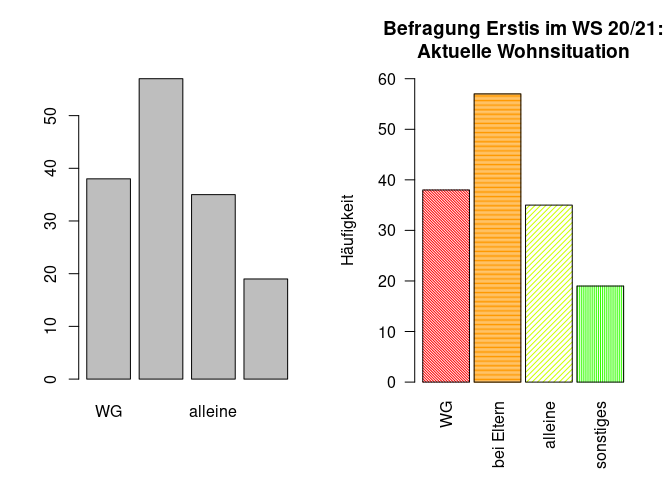
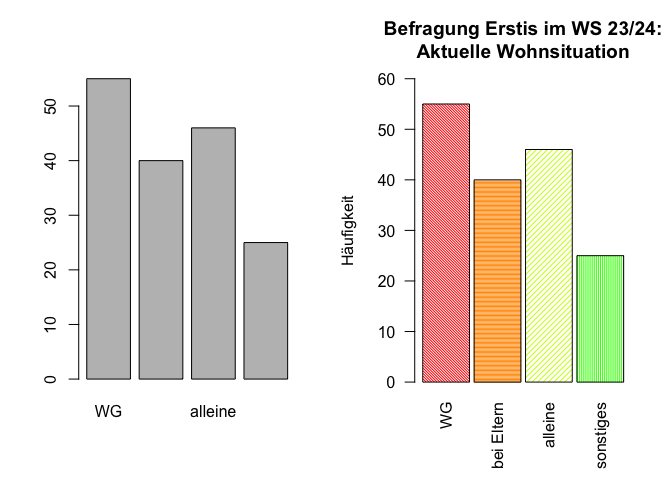
Update deskriptiv-nominal-ordinal-aufgaben + loesungen, now with fb23

diff --git a/content/lehre/statistik-i/deskriptiv-nominal-ordinal-loesungen.md b/content/lehre/statistik-i/deskriptiv-nominal-ordinal-loesungen.md
@@ -8,7 +8,7 @@ tags: []
 subtitle: ''
 summary: '' 
 authors: [buchholz, nehler] 
-lastmod: '2023-10-24'
+lastmod: '2023-10-27'
 featured: no
 banner:
   image: "/header/frogs_on_phones.jpg"
@@ -31,11 +31,11 @@ Die Lösungen sind exemplarische Möglichkeiten. In `R` gibt es immer viele Wege
 
 <details><summary>Lösung</summary>
 
-Laden Sie zunächst den Datensatz `fb22` von der pandar-Website herunter und dann ein.
+Laden Sie zunächst den Datensatz `fb23` von der pandar-Website herunter und dann ein.
 
 
 ```r
-load(url('https://pandar.netlify.app/daten/fb22.rda'))   # Daten laden
+load(url('https://pandar.netlify.app/daten/fb23.rda'))   # Daten laden
 ```
 
 Die Bedeutung der einzelnen Variablen und ihre Antwortkategorien können Sie dem Dokument [Variablenübersicht](/lehre/statistik-i/variablen.pdf) entnehmen.
@@ -44,58 +44,62 @@ Verschaffen Sie sich nun einen Überblick über den Datensatz:
 
 
 ```r
-dim(fb22)
+dim(fb23)
 ```
 
 ```
-## [1] 159  36
+## [1] 179  40
 ```
 
 ```r
-str(fb22)
+str(fb23)
 ```
 
 ```
-## 'data.frame':	159 obs. of  36 variables:
-##  $ prok1  : int  1 4 3 1 2 2 2 3 2 4 ...
-##  $ prok2  : int  3 3 3 3 1 4 2 1 3 3 ...
-##  $ prok3  : int  4 2 2 4 4 2 3 2 2 2 ...
-##  $ prok4  : int  2 4 4 NA 3 2 2 3 3 4 ...
-##  $ prok5  : int  3 1 2 4 2 3 3 3 4 2 ...
-##  $ prok6  : int  4 4 4 3 1 2 2 3 2 4 ...
-##  $ prok7  : int  3 2 2 4 2 3 3 3 3 3 ...
-##  $ prok8  : int  3 4 3 4 4 2 3 3 4 2 ...
-##  $ prok9  : int  1 4 4 2 1 1 2 2 3 4 ...
-##  $ prok10 : int  3 4 3 2 1 3 1 4 1 4 ...
-##  $ nr1    : int  1 1 4 2 1 1 1 5 2 1 ...
-##  $ nr2    : int  3 2 5 4 5 4 3 5 4 4 ...
-##  $ nr3    : int  5 1 5 4 1 3 3 5 5 4 ...
-##  $ nr4    : int  4 2 5 4 2 4 4 5 3 5 ...
-##  $ nr5    : int  4 2 5 4 2 3 4 5 4 4 ...
-##  $ nr6    : int  3 1 5 3 2 1 1 5 2 4 ...
-##  $ lz     : num  5.4 6 3 6 3.2 5.8 4.2 NA 5.4 4.6 ...
-##  $ extra  : num  2.75 3.75 4.25 4 2.5 3 2.75 3.5 4.75 5 ...
-##  $ vertr  : num  3.75 4.75 4.5 4.75 4.75 3 3.25 5 4.5 4.5 ...
-##  $ gewis  : num  4.25 2.75 3.75 4.25 5 4.25 4 4.75 4.5 3 ...
-##  $ neuro  : num  4.25 5 4 2.25 3.75 3.25 3 3.5 4 4.5 ...
-##  $ intel  : num  4.75 4 5 4.75 3.5 3 4 4 5 4.25 ...
-##  $ nerd   : num  2.67 4 4.33 3.17 4.17 ...
-##  $ grund  : chr  "Interesse" "Allgemeines Interesse schon seit der Kindheit" "menschliche Kognition wichtig und rätselhaft; Interesse für Psychoanalyse; Schnittstelle zur Linguistik" "Psychoanalyse, Hilfsbereitschaft, Lebenserfahrung" ...
-##  $ fach   : num  5 4 1 4 2 NA 1 4 3 4 ...
-##  $ ziel   : num  2 2 3 2 2 NA 1 2 2 2 ...
-##  $ lerntyp: num  1 1 1 1 1 NA 3 2 3 1 ...
-##  $ geschl : int  1 2 2 2 1 NA 2 1 1 1 ...
-##  $ job    : int  1 2 1 1 1 NA 2 1 1 1 ...
-##  $ ort    : int  1 1 1 2 2 NA 2 1 1 1 ...
-##  $ ort12  : int  1 1 1 1 1 NA 1 1 1 1 ...
-##  $ wohnen : num  2 2 3 4 2 NA 2 1 1 3 ...
-##  $ uni1   : num  0 0 0 0 0 0 0 1 1 1 ...
-##  $ uni2   : num  1 1 0 1 1 0 0 1 1 1 ...
-##  $ uni3   : num  0 0 0 0 0 0 0 1 1 1 ...
-##  $ uni4   : num  0 0 1 0 0 0 0 0 0 0 ...
+## 'data.frame':	179 obs. of  40 variables:
+##  $ mdbf1_pre  : int  4 2 4 NA 3 3 2 3 3 2 ...
+##  $ mdbf2_pre  : int  2 2 3 3 3 2 3 2 2 1 ...
+##  $ mdbf3_pre  : int  3 4 2 2 2 3 3 1 2 2 ...
+##  $ mdbf4_pre  : int  2 2 1 2 1 1 3 2 3 3 ...
+##  $ mdbf5_pre  : int  3 2 3 2 2 1 3 3 2 4 ...
+##  $ mdbf6_pre  : int  2 1 2 2 2 2 2 3 2 2 ...
+##  $ mdbf7_pre  : int  4 3 3 1 1 2 2 3 3 3 ...
+##  $ mdbf8_pre  : int  3 2 3 2 3 3 2 3 3 2 ...
+##  $ mdbf9_pre  : int  2 4 1 2 3 3 4 2 2 3 ...
+##  $ mdbf10_pre : int  3 2 3 3 2 4 2 2 2 2 ...
+##  $ mdbf11_pre : int  3 2 1 2 2 1 3 1 2 4 ...
+##  $ mdbf12_pre : int  1 1 2 3 2 2 2 3 3 2 ...
+##  $ lz         : num  5.4 3.4 4.4 4.4 6.4 5.6 5.4 5 4.8 6 ...
+##  $ extra      : num  3.5 3 4 3 4 4.5 3.5 3.5 2.5 3 ...
+##  $ vertr      : num  1.5 3 3.5 4 4 4.5 4 4 3 3.5 ...
+##  $ gewis      : num  4.5 4 5 3.5 3.5 4 4.5 2.5 3.5 4 ...
+##  $ neuro      : num  5 5 2 4 3.5 4.5 3 2.5 4.5 4 ...
+##  $ offen      : num  5 5 4.5 3.5 4 4 5 4.5 4 3 ...
+##  $ prok       : num  1.8 3.1 1.5 1.6 2.7 3.3 2.2 3.4 2.4 3.1 ...
+##  $ nerd       : num  4.17 3 2.33 2.83 3.83 ...
+##  $ grund      : chr  "Berufsziel" "Interesse am Menschen" "Interesse und Berufsaussichten" "Wissenschaftliche Ergänzung zu meinen bisherigen Tätigkeiten (Arbeit in der psychiatrischen Akutpflege, Gestalt"| __truncated__ ...
+##  $ fach       : num  4 4 4 4 4 4 NA 4 4 NA ...
+##  $ ziel       : num  2 2 2 2 2 2 NA 4 2 2 ...
+##  $ wissen     : int  5 4 5 4 2 3 NA 4 3 3 ...
+##  $ therap     : int  5 5 5 5 4 5 NA 3 5 5 ...
+##  $ lerntyp    : num  3 3 1 3 3 1 NA 1 3 3 ...
+##  $ hand       : int  2 2 2 2 2 2 NA 2 1 2 ...
+##  $ job        : int  1 1 1 1 2 2 NA 2 1 2 ...
+##  $ ort        : int  2 1 1 1 1 2 NA 1 1 2 ...
+##  $ ort12      : int  2 1 2 2 2 1 NA 2 2 1 ...
+##  $ wohnen     : num  4 1 1 1 1 2 NA 3 3 2 ...
+##  $ uni1       : num  0 1 0 1 0 0 0 0 0 0 ...
+##  $ uni2       : num  1 1 1 1 1 1 0 1 1 1 ...
+##  $ uni3       : num  0 1 0 0 1 0 0 1 1 0 ...
+##  $ uni4       : num  0 1 0 1 0 0 0 0 0 0 ...
+##  $ attent_pre : int  6 6 6 6 6 6 NA 4 5 5 ...
+##  $ gs_post    : num  3 2.75 4 2.5 3.75 NA 4 2.75 3.75 2.5 ...
+##  $ wm_post    : num  2 1 3.75 2.75 3 NA 3.25 2 3.25 2 ...
+##  $ ru_post    : num  2.25 1.5 3.75 3.5 3 NA 3.5 2.75 2.75 2.75 ...
+##  $ attent_post: int  6 5 6 6 6 NA 6 4 5 3 ...
 ```
 
-Der Datensatz besteht aus 159 Zeilen (Beobachtungen) und 36 Spalten (=Variablen).
+Der Datensatz besteht aus 179 Zeilen (Beobachtungen) und 40 Spalten (Variablen).
 
 </details>
 
@@ -116,10 +120,10 @@ Untersuchen Sie, welche Arbeitsbranche Sie und Ihre Kommiliton:innen nach dem St
 
 
 ```r
-fb22$ziel <- factor(fb22$ziel,
+fb23$ziel <- factor(fb23$ziel,
                         levels = 1:4,
                         labels = c("Wirtschaft", "Therapie", "Forschung", "Andere"))
-levels(fb22$ziel)
+levels(fb23$ziel)
 ```
 
 ```
@@ -130,23 +134,23 @@ levels(fb22$ziel)
 
 
 ```r
-table(fb22$ziel)              # absolut
+table(fb23$ziel)              # absolut
 ```
 
 ```
 ## 
 ## Wirtschaft   Therapie  Forschung     Andere 
-##         20         80         32         17
+##         15        106         29         19
 ```
 
 ```r
-prop.table(table(fb22$ziel))  # relativ
+prop.table(table(fb23$ziel))  # relativ
 ```
 
 ```
 ## 
 ## Wirtschaft   Therapie  Forschung     Andere 
-##  0.1342282  0.5369128  0.2147651  0.1140940
+##  0.0887574  0.6272189  0.1715976  0.1124260
 ```
 
 **Zentrale Tendenz und Dispersion für nominalskalierte Variablen: Modus, relativer Informationsgehalt**
@@ -154,7 +158,7 @@ prop.table(table(fb22$ziel))  # relativ
 
 ```r
 # Modus
-which.max(table(fb22$ziel))
+which.max(table(fb23$ziel))
 ```
 
 ```
@@ -165,7 +169,7 @@ which.max(table(fb22$ziel))
 
 ```r
 #relativer Informationsgehalt
-hj <- prop.table(table(fb22$ziel))  # hj erstellen
+hj <- prop.table(table(fb23$ziel))  # hj erstellen
 ln_hj <- log(hj)                    # Logarithmus bestimmen
 summand <- ln_hj * hj               # Berechnung fuer jede Kategorie
 summe <- sum(summand)               # Gesamtsumme
@@ -175,10 +179,10 @@ relInf
 ```
 
 ```
-## [1] 0.8522699
+## [1] 0.7615196
 ```
 
-Der Modus der Variable lautet Therapie - die meisten Ihres Jahrgangs (*n* = 80 bzw. 53.69%) streben einen Job in diesem Bereich an. Der relative Informationsgehalt der Variable beträgt 0.85. Sie sehen hier, dass wir im Code einen kleinen Unterschied zum Tutorial eingebaut haben. Die Anzahl der Kategorien wird nicht mehr durch `dim(tab)` sondern durch `length(hj)` bestimmt. Das Resultat ist nicht verschieden - die Anzahl der Kategorien wird gezählt. Wir wollen somit aber nochmal deutlich machen, dass es in `R` immer sehr viele Wege zu einem Ziel geben kann.
+Der Modus der Variable lautet Therapie - die meisten Ihres Jahrgangs (*n* = 106 bzw. 62.72%) streben einen Job in diesem Bereich an. Der relative Informationsgehalt der Variable beträgt 0.76. Sie sehen hier, dass wir im Code einen kleinen Unterschied zum Tutorial eingebaut haben. Die Anzahl der Kategorien wird nicht mehr durch `dim(tab)` sondern durch `length(hj)` bestimmt. Das Resultat ist nicht verschieden - die Anzahl der Kategorien wird gezählt. Wir wollen somit aber nochmal deutlich machen, dass es in `R` immer sehr viele Wege zu einem Ziel geben kann.
 
 </details>
 
@@ -186,7 +190,7 @@ Der Modus der Variable lautet Therapie - die meisten Ihres Jahrgangs (*n* = 80 b
 
 ## Aufgabe 2
 
-Die Variable `nr3` enthält die Angaben über das Ausmaß, in dem Sie und Ihre Kommilitonen:innen Ihre Verbindung zur Natur als Teil Ihrer Spiritualität ansehen.
+Die Variable `wissen` enthält die Angaben über das Ausmaß, in dem sich Sie und Ihre Kommilitonen:innen für wissenschaftliche Grundlagen interessieren.
 
 * Bestimmen Sie für diese Variable den Modus.     
 * Untersuchen Sie die Streuung für diese Variable optisch, indem Sie einen Boxplot erstellen.  
@@ -198,44 +202,44 @@ Die Variable `nr3` enthält die Angaben über das Ausmaß, in dem Sie und Ihre K
 
 
 ```r
-which.max(table(fb22$nr3))
+which.max(table(fb23$wissen))
 ```
 
 ```
-## 3 
-## 3
+## 4 
+## 4
 ```
 
 **Häufigkeiten**
 
 
 ```r
-table(fb22$nr3)
+table(fb23$wissen)
 ```
 
 ```
 ## 
 ##  1  2  3  4  5 
-## 19 28 47 40 23
+##  1 20 54 69 32
 ```
 
 ```r
-prop.table(table(fb22$nr3))
+prop.table(table(fb23$wissen))
 ```
 
 ```
 ## 
-##         1         2         3         4         5 
-## 0.1210191 0.1783439 0.2993631 0.2547771 0.1464968
+##           1           2           3           4           5 
+## 0.005681818 0.113636364 0.306818182 0.392045455 0.181818182
 ```
 
-Der Modus der Variable "nr3" beträgt 3, d.h. diese Antwortkategorie wurde am häufigsten genannt (*n* = 47 bzw. 29.94%).
+Der Modus der Variable "wissen" beträgt 4, d.h. diese Antwortkategorie wurde am häufigsten genannt (*n* = 69 bzw. 39.2%).
 
 **Boxplot**
 
 
 ```r
-boxplot(fb22$nr3)
+boxplot(fb23$wissen)
 ```
 
 ![](/lehre/statistik-i/deskriptiv-nominal-ordinal-loesungen_files/figure-html/unnamed-chunk-9-1.png)<!-- -->
@@ -244,15 +248,15 @@ boxplot(fb22$nr3)
 
 
 ```r
-quantile(fb22$nr3, c(.25,.5,.75), na.rm=T)
+quantile(fb23$wissen, c(.25,.5,.75), na.rm=T)
 ```
 
 ```
 ## 25% 50% 75% 
-##   2   3   4
+##   3   4   4
 ```
 
-Der Median beträgt 3. Das 1. und 3. Quartil betragen 2 bzw. 4. Folglich sind die Grenzen des Interquartilsbereich (IQB) 2 und 4. Der Interquartilsabstand (IQA) beträgt 2.
+Der Median beträgt 4. Das 1. und 3. Quartil betragen 3 bzw. 4. Folglich sind die Grenzen des Interquartilsbereich (IQB) 3 und 4. Der Interquartilsabstand (IQA) beträgt 1.
 
 </details>
 
@@ -263,7 +267,7 @@ Erstellen Sie für die Variable `wohnen` eine geeignete Abbildung.
 
 * Stellen Sie sicher, dass die einzelnen Ausprägungen der Variable in der Darstellung interpretierbar benannt sind!  
 * Dekorieren Sie diese Abbildung nach eigenen Wünschen (z.B. mit einer Farbpalette und Achsenbeschriftungen).
-* Speichern Sie die Grafik per Syntax als .jpg-Datei mit dem Namen "Befragung-fb22.jpg" ab.
+* Speichern Sie die Grafik per Syntax als .jpg-Datei mit dem Namen "Befragung-fb23.jpg" ab.
 
 <details><summary>Lösung</summary>
 
@@ -271,7 +275,7 @@ Erstellen Sie für die Variable `wohnen` eine geeignete Abbildung.
 
 
 ```r
-fb22$wohnen <- factor(fb22$wohnen, 
+fb23$wohnen <- factor(fb23$wohnen, 
                       levels = 1:4, 
                       labels = c("WG", "bei Eltern", "alleine", "sonstiges"))
 ```
@@ -285,14 +289,14 @@ Um die Vergleichbarkeit zu erhöhen, wird im folgenden Code ein kleiner Trick an
 par(mfrow=c(1,2))
 
 # Default
-barplot(table(fb22$wohnen))
+barplot(table(fb23$wohnen))
 
 # Überarbeitet
 barplot(
   # wichtig: Funktion auf Häufigkeitstabelle, nicht die Variable selbst anwenden:
-  table(fb22$wohnen),                               
+  table(fb23$wohnen),                               
   # aussagekräftiger Titel, inkl. Zeilenumbruch ("\n") 
-  main = "Befragung Erstis im WS 20/21:\nAktuelle Wohnsituation", 
+  main = "Befragung Erstis im WS 23/24:\nAktuelle Wohnsituation", 
   # y-Achsen-Beschriftung:
   ylab = "Häufigkeit",
   # Farben aus einer Farbpalette:
@@ -317,10 +321,10 @@ barplot(
 
 
 ```r
-jpeg("Befragung-fb22.jpg", width=20, height=10, units="cm", res=200)
+jpeg("Befragung-fb23.jpg", width=20, height=10, units="cm", res=200)
 barplot(
-  table(fb22$wohnen),                               
-  main = "Befragung Erstis im WS 21/22:\nAktuelle Wohnsituation", 
+  table(fb23$wohnen),                               
+  main = "Befragung Erstis im WS 23/24:\nAktuelle Wohnsituation", 
   ylab = "Häufigkeit",
   col = rainbow(10),
   space = 0.1,

diff --git a/content/lehre/statistik-i/deskriptiv-nominal-ordinal-aufgaben.md b/content/lehre/statistik-i/deskriptiv-nominal-ordinal-aufgaben.md
@@ -9,7 +9,7 @@ subtitle: ''
 summary: '' 
 authors: [buchholz, nehler]
 weight: 
-lastmod: '2023-10-13'
+lastmod: '2023-10-27'
 featured: no
 banner:
   image: "/header/frogs_on_phones.jpg"
@@ -39,7 +39,7 @@ output:
 
 ### Vorbereitung
 
-> Laden Sie die Daten aus [<i class="fas fa-download"></i> `fb22.rda`](/daten/fb22.rda) oder direkt von der Website über die gelernten Befehle. Die Bedeutung der einzelnen Variablen und ihre Antwortkategorien können Sie dem Dokument [Variablenübersicht](/lehre/statistik-i/variablen.pdf) entnehmen.
+> Laden Sie die Daten aus [<i class="fas fa-download"></i> `fb23.rda`](/daten/fb23.rda) oder direkt von der Website über die gelernten Befehle. Die Bedeutung der einzelnen Variablen und ihre Antwortkategorien können Sie dem Dokument [Variablenübersicht](/lehre/statistik-i/variablen.pdf) entnehmen.
 
 
 ## Aufgabe 1
@@ -53,7 +53,7 @@ Untersuchen Sie, welche Arbeitsbranche Sie und Ihre Kommiliton:innen nach dem St
 
 ## Aufgabe 2
 
-Die Variable `nr3` enthält die Angaben über das Ausmaß, in dem Sie und Ihre Kommiliton:innen Ihre Verbindung zur Natur als Teil Ihrer Spiritualität ansehen.
+Die Variable `wissen` enthält die Angaben über das Ausmaß, in dem sich Sie und Ihre Kommilitonen:innen für wissenschaftliche Grundlagen interessieren.
 
 * Bestimmen Sie für diese Variable den Modus.     
 * Untersuchen Sie die Streuung für diese Variable optisch, indem Sie einen Boxplot erstellen.  
@@ -66,5 +66,5 @@ Erstellen Sie für die Variable `wohnen` eine geeignete Abbildung.
 
 * Stellen Sie sicher, dass die einzelnen Ausprägungen der Variable in der Darstellung interpretierbar benannt sind!  
 * Dekorieren Sie diese Abbildung nach eigenen Wünschen (z.B. mit einer Farbpalette und Achsenbeschriftungen).
-* Speichern Sie die Grafik per Syntax als .jpg-Datei mit dem Namen "Befragung-fb22.jpg" ab.
+* Speichern Sie die Grafik per Syntax als .jpg-Datei mit dem Namen "Befragung-fb23.jpg" ab.
 
